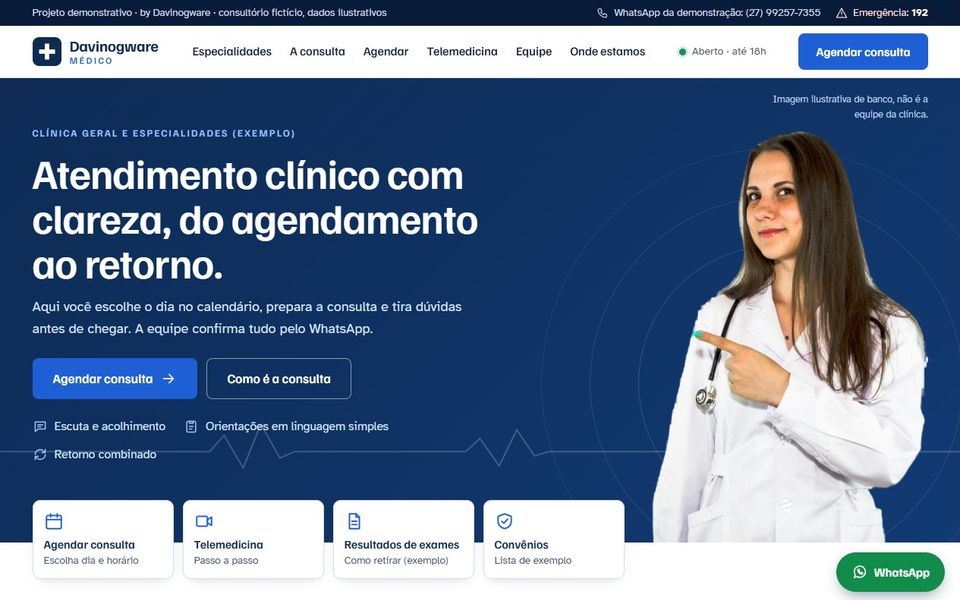
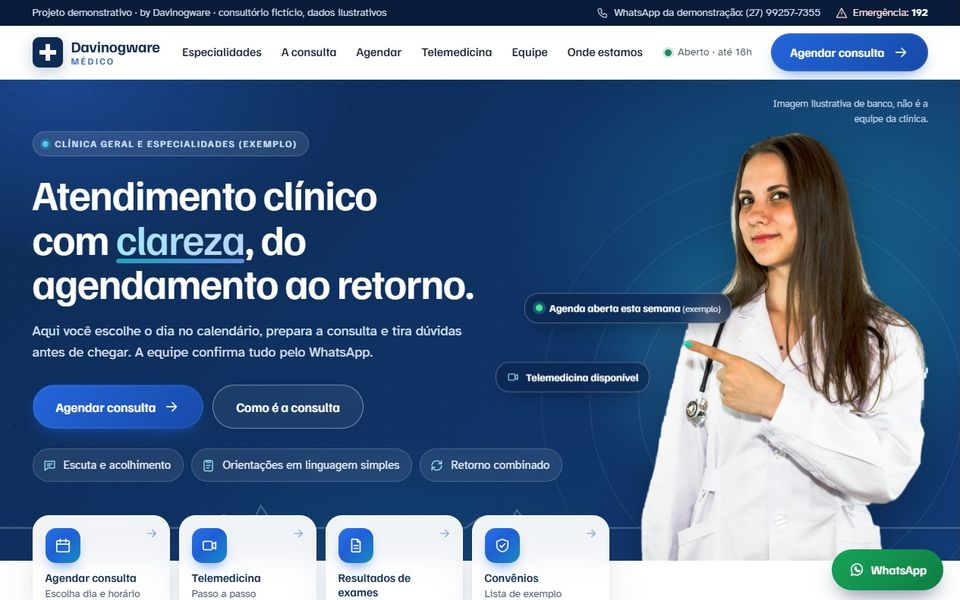
chore: atualiza miniatura e texto do projeto Médico

diff --git a/index.html b/index.html
@@ -19,7 +19,7 @@
 <link rel="preconnect" href="https://fonts.gstatic.com" crossorigin>
 <link href="https://fonts.googleapis.com/css2?family=Manrope:wght@400;500;600;700;800&display=swap" rel="stylesheet">
 <link rel="stylesheet" href="https://cdnjs.cloudflare.com/ajax/libs/font-awesome/6.5.1/css/all.min.css">
-<link rel="stylesheet" href="css/site.css?v=5">
+<link rel="stylesheet" href="css/site.css?v=6">
 <script>document.documentElement.classList.add('js')</script>
 </head>
 <body>
@@ -253,7 +253,7 @@
         <div class="cat-body">
           <span class="pill">Clínica médica</span>
           <h3>Davinogware Médico</h3>
-          <p>Hero com médica em destaque, calendário mensal de agendamento em tela única, especialidades em abas e checklist para preparar a consulta. Sóbrio e dentro das regras da área.</p>
+          <p>Hero com médica em destaque e chips de vidro, calendário mensal em tela única, especialidades com foto, telemedicina e checklist animado. Moderno, sóbrio e dentro das regras da área.</p>
           <ul class="cat-tags"><li>Calendário de agendamento</li><li>Especialidades em abas</li><li>Prepare sua consulta</li></ul>
           <div class="cat-cta">
             <a class="btn btn-primary" href="https://davinogware-medico.vercel.app/" target="_blank" rel="noopener"><i class="fa-solid fa-arrow-up-right-from-square"></i> Ver ao vivo</a>
